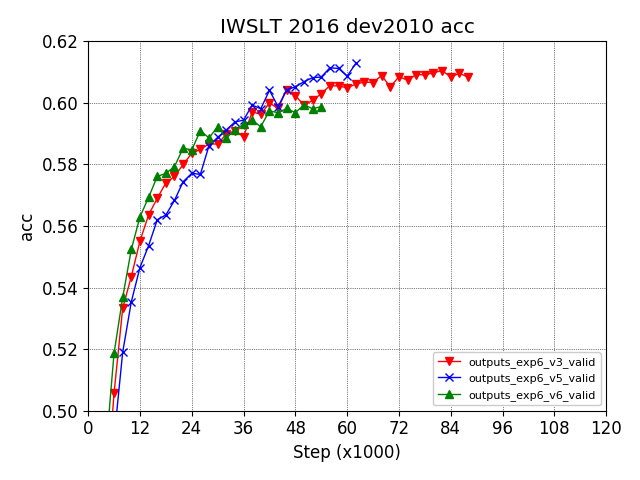
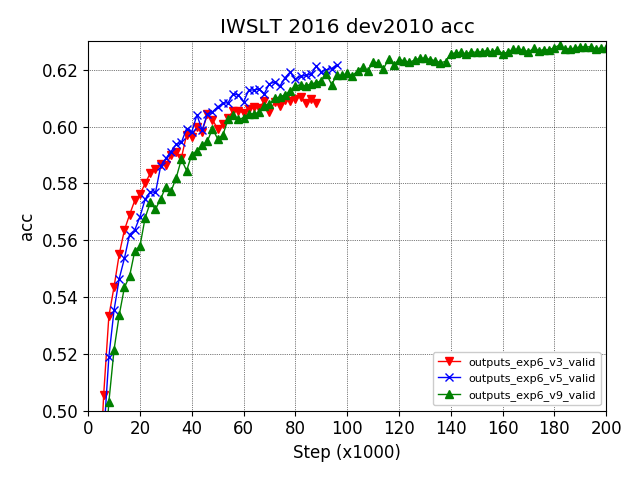
sync

diff --git a/src/main.py b/src/main.py
@@ -78,8 +78,10 @@ add_argument(parser, "grad_bound", type="float", default=None, help="L2 norm")
 add_argument(parser, "init_range", type="float", default=0.1, help="L2 norm")
 add_argument(parser, "lr_adam", type="float", default=20.0, help="initial lr")
 add_argument(parser, "lr_sgd", type="float", default=20.0, help="initial lr")
-add_argument(parser, "lr_dec", type="float", default=2.0, help="decrease lr when val_ppl does not improve")
-add_argument(parser, "l2_reg", type="float", default=0.0, help="L2 weight penalty")
+add_argument(parser, "lr_dec", type="float", default=2.0,
+             help="decrease lr when val_ppl does not improve")
+add_argument(parser, "l2_reg", type="float", default=0.0,
+             help="L2 weight penalty")
 add_argument(parser, "lr_schedule", type="bool", default=False, help="enable lr schedule")
 add_argument(parser, "optim", type="str", default="sgd", help="sgd|adam")
 add_argument(parser, "init_type", type="str", default="uniform",

diff --git a/src/models.py b/src/models.py
@@ -410,13 +410,6 @@ class Beam(object):
     """
     trg_vocab_size = word_scores.size(1)
 
-    # scores, indices = torch.max(word_scores, dim=1)
-    # scores = scores.cpu().numpy()
-    # indices = indices.cpu().numpy()
-    # print(scores)
-    # print(indices)
-    # if step >= 2:
-    #   sys.exit(0)
     if len(self.prev_ks) > 0:
       if not self.len_norm is None:
         beam_score = self.len_norm.norm_partial(word_scores, self.scores, self.next_ys)
@@ -441,9 +434,9 @@ class Beam(object):
     self.next_ys.append(next_y)
 
     if self.next_ys[-1][0] == self.hparams.eos_id:
-      #self.active_hyp_size -= 1
-      #self.finished.append((self.get_y(0), self.scores[0]))
-      #self.done = (self.active_hyp_size == 0)
+      # self.active_hyp_size -= 1
+      # self.finished.append((self.get_y(0), self.scores[0]))
+      # self.done = (self.active_hyp_size == 0)
 
       self.done = True
     return self.done

diff --git a/visualize/plot_acc_curve.py b/visualize/plot_acc_curve.py
@@ -89,16 +89,16 @@ def plot_result():
 
   if "ppl" in FLAGS.plot_name:
     xmin = 0.0
-    xmax = 120.0
-    ymin = 2.00  # min(ymin, min(np.min(valid_acc), np.min(test_acc)))
+    xmax = 200.0
+    ymin = 1.92  # min(ymin, min(np.min(valid_acc), np.min(test_acc)))
     ymax = 2.80  # max(ymax, max(np.max(valid_acc), np.max(test_acc)))
     dist = (ymax - ymin) / 10
     plt.yticks(np.arange(ymin, ymax + dist, dist))
   else:
     xmin = 0.0
-    xmax = 120.0
+    xmax = 200.0
     ymin = 0.50  # min(ymin, min(np.min(valid_acc), np.min(test_acc)))
-    ymax = 0.62  # max(ymax, max(np.max(valid_acc), np.max(test_acc)))
+    ymax = 0.63  # max(ymax, max(np.max(valid_acc), np.max(test_acc)))
 
   dist = (xmax - xmin) / 10
   plt.xticks(np.arange(0, xmax + dist, dist))

diff --git a/src/data_utils.py b/src/data_utils.py
@@ -69,7 +69,6 @@ class DataLoader(object):
       self.valid_size = len(self.x_valid)
       self.reset_valid()
 
-
   def reset_train(self):
     """Shuffle training data. Prepare the batching scheme if necessary."""
 
